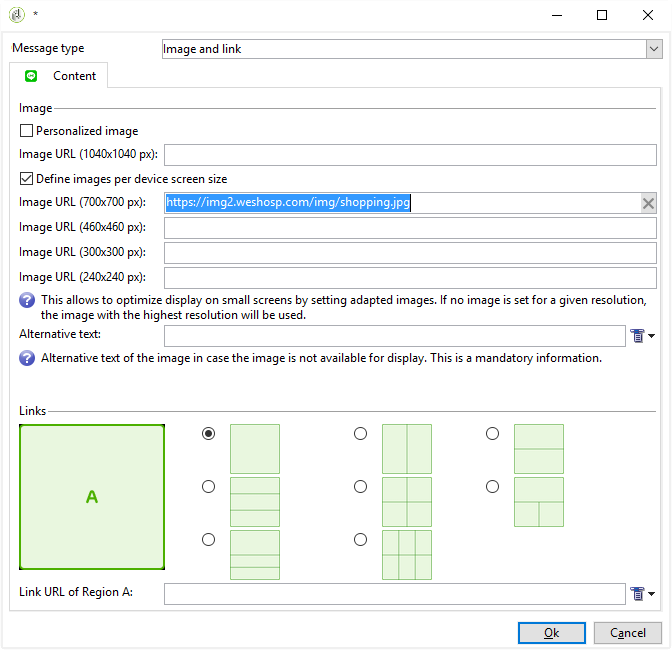
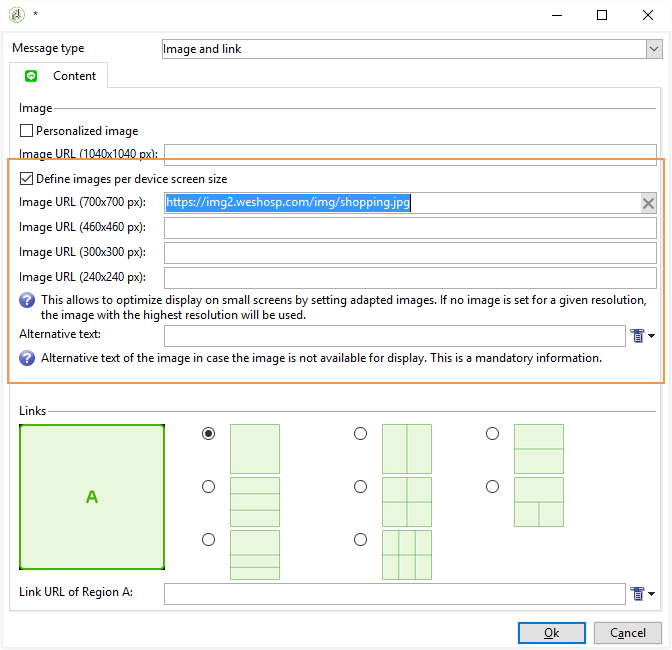
LINE  WIP

diff --git a/help/delivery/using/line-channel.md b/help/delivery/using/line-channel.md
@@ -96,10 +96,15 @@ To define the content of a [!DNL LINE] delivery, you first have to add message t
 
 You can choose between two message types:
 
-* Text message
-* Image and link
+* [Text message](#configuring-a-text-message-delivery)
+* [Image and link](#configuring-an-image-and-link-delivery)
+* [Video message](#configuring-a-video-message-delivery)
 
 ### Configuring a Text message delivery {#configuring-a-text-message-delivery}
+
+>[!NOTE]
+>
+>The `<%@ include option='NmsServer_URL' %>/webApp/APP3?id=<%=escapeUrl(cryptString(visitor.id))%>` syntax allows you to include a link to a web app in a LINE message.
 
 A **[!UICONTROL Text message]** [!DNL LINE] delivery is a message sent to recipients in text form. 
 
@@ -113,19 +118,19 @@ An **[!UICONTROL Image and link]** [!DNL LINE] delivery is a message sent to rec
 
 You can use:
 
-* a **Personalized image**,
+* a **[!UICONTROL Personalized image]**,
 
   >[!NOTE]
   >
-  >You can use the **%SIZE%** variable: this variable allows you to optimize the image display according to the screen size of the recipient's mobile device.
+  >You can use the **%SIZE%** variable to optimize the image display according to the screen size of the recipient's mobile device.
 
   ![](assets/line_message_04.png)
 
-* an **Image URL**,
+* an **[!UICONTROL Image URL]** per device screen size,
 
   ![](assets/line_message_03.png)
 
-  The image URLs allow you to use different image resolutions to optimize delivery visibility on mobile devices. Only images with same height and width are supported.
+  The **[!UICONTROL Define images per device screen size]** option allows you to use different image resolutions to optimize delivery visibility on mobile devices. Only images with same height and width are supported.
 
   Images can be defined according to the screen size:
 
@@ -135,7 +140,7 @@ You can use:
   * 300px
   * 240px
 
-  >[!NOTE]
+  >[!CAUTION]
   >
   >The 1040x1040 px size is mandatory for every LINE image with link.
 
@@ -143,25 +148,40 @@ You can use:
 
 * and **[!UICONTROL Links]**.
 
+  The **[!UICONTROL Links]** section allows you to choose between different layouts that will divide your image in multiple clickable regions. You can then assign each of them a dedicated **[!UICONTROL Link URL]**.
+
   ![](assets/line_message_05.png)
 
-  The **[!UICONTROL Links]** section allows you to choose between different layouts that will divide your image in multiple clickable regions. You can then assign each of them a dedicated link.
+### Configuring a Video message delivery {#configuring-a-video-message-delivery}
 
->[!NOTE]
->
->The `<%@ include option='NmsServer_URL' %>/webApp/APP3?id=<%=escapeUrl(cryptString(visitor.id))%>` syntax allows you to include a link to a web app in a LINE message.
+A **[!UICONTROL Video message]** [!DNL LINE] delivery is a message sent to recipients in the form of a video that can contain an URL.
+
+  ![](assets/line_message_06.png)
+
+**[!UICONTROL Preview Image URL]**
+URL of preview image (Max character limit: 1000)
+HTTPS over TLS 1.2 or later
+JPEG or PNG
+Max file size: 1 MB
+
+**[!UICONTROL Video Image URL]**
+URL of video file (Max character limit: 1000)
+HTTPS over TLS 1.2 or later
+mp4 format
+Max file size: 200 MB
+A very wide or tall video may be cropped when played in some environments.
 
 ## Accessing reports {#accessing-reports}
 
-1. After sending your delivery, click **[!UICONTROL Campaign Management]** > **[!UICONTROL Deliveries]** from the **[!UICONTROL Explorer]** tab to view reports on your [!DNL LINE] delivery. 
+After sending your delivery, you can view your [!DNL LINE] reports via the menu **[!UICONTROL Campaign Management]** > **[!UICONTROL Deliveries]** from the **[!UICONTROL Explorer]**.
    
    >[!NOTE]
    >
    >The tracking reports indicate the click-through rate. LINE does not take the open rate into account.
 
    ![](assets/line_reports_01.png)
-
-1. To access reports on your [!DNL LINE] service, select **[!UICONTROL Profiles and Targets]** > **[!UICONTROL Services and Subscriptions]** > **[!UICONTROL LINE]** from the **[!UICONTROL Explorer]**. Then click the **[!UICONTROL Reports]** icon in the LINE service.
+ 
+For LINE service reports, access the menu **[!UICONTROL Profiles and Targets > Services and Subscriptions > LINE]** from the **[!UICONTROL Explorer]** tab. Then click the **[!UICONTROL Reports]** icon in the [!DNL LINE] service.
 
    ![](assets/line_reports.png)
 
